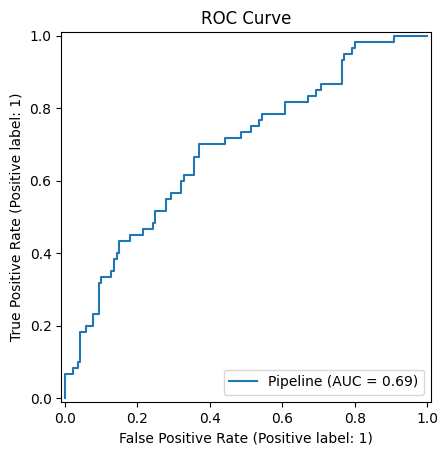
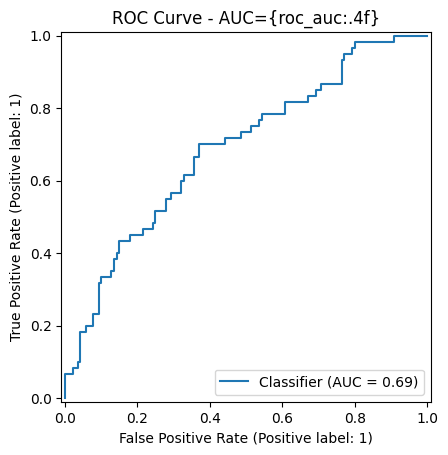
modified:   README.md && reports/roc_curve.png && reports/shap_summary.png && src/evaluate.py && src/explain.py - new file:   api/app.py - reports/feature_importance.csv && reports/feature_importance.csv && reports/feature_importance.png

diff --git a/src/evaluate.py b/src/evaluate.py
@@ -5,10 +5,52 @@ from pathlib import Path
 import joblib
 import matplotlib.pyplot as plt
 import pandas as pd
-from sklearn.metrics import ConfusionMatrixDisplay, RocCurveDisplay
+from sklearn.metrics import (
+    ConfusionMatrixDisplay, 
+    RocCurveDisplay,
+    classification_report, 
+    roc_auc_score,
+)
 from sklearn.model_selection import train_test_split
 
 from data_preprocessing import load_data, split_features_target
+
+def get_feature_names(pipeline):
+    preprocessor = pipeline.named_steps["preprocessor"]
+    return preprocessor.get_feature_names_out()
+
+
+def plot_feature_importance(pipeline, output_path: str):
+    model = pipeline.named_steps["model"]
+    feature_names = get_feature_names(pipeline)
+    
+    if not hasattr(model, "feature_importances_"):
+        print("This model does not expose feature_importances_. Skipping.")
+        return 
+        
+    importances = model.feature_importances_
+    
+    importance_df = pd.DataFrame(
+        {
+            "feature": feature_names,
+            "importance": importances,
+        }
+    ).sort_values("importance", ascending=False)
+    
+    importance_df.to_csv("reports/feature_importance.csv", index=False)
+    
+    top_features = importance_df.head(20)
+    
+    plt.figure(figsize=(10,6))
+    plt.barh(top_features["feature"], top_features["importance"])
+    plt.gca().invert_yaxis()
+    plt.title("Top 20 Feature Importances")
+    plt.xlabel("Importance")
+    plt.tight_layout()
+    plt.savefig(output_path, bbox_inches="tight")
+    plt.close()         
+    
+
 
 def evaluate_saved_model(
     model_path: str | Path,
@@ -16,6 +58,9 @@ def evaluate_saved_model(
     target_col: str = "Risk",
     random_state: int = 42,
 ) -> None:
+    reports_dir = Path("reports")
+    reports_dir.mkdir(parents=True, exist_ok=True)
+    
     model_path = Path(model_path)
     if not model_path.exists():
         raise FileNotFoundError(f"Model not found: {model_path}")
@@ -33,13 +78,17 @@ def evaluate_saved_model(
     )
     
     y_pred = pipeline.predict(X_test)
+    y_proba = pipeline.predict_proba(X_test)[:, 1]
     
-    reports_dir = Path("reports")
-    reports_dir.mkdir(parents=True, exist_ok=True)
+    roc_auc = roc_auc_score(y_test, y_pred)
+    
+    print("ROC-AUC:", round(roc_auc, 4))
+    print("\nClassification report:")
+    print(classification_report(y_test, y_pred))
     
     plt.figure()
-    RocCurveDisplay.from_estimator(pipeline, X_test, y_test)
-    plt.title("ROC Curve")
+    RocCurveDisplay.from_predictions(y_test, y_proba)
+    plt.title("ROC Curve - AUC={roc_auc:.4f}")
     plt.savefig(reports_dir / "roc_curve.png", bbox_inches="tight")
     plt.close()
     
@@ -48,6 +97,11 @@ def evaluate_saved_model(
     plt.title("Confusion Maxtrix")
     plt.savefig(reports_dir / "confusion_matrix.png", bbox_inches="tight") 
     plt.close()
+    
+    plot_feature_importance(
+        pipeline,
+        output_path=reports_dir / "feature_importance.png",   
+    )
     
     print("Saved evaluation plots to reports/")
 

diff --git a/src/explain.py b/src/explain.py
@@ -17,7 +17,11 @@ def explain_model():
     X, y = split_features_target(df, target_col="Risk")
     
     _, X_test, _, _ = train_test_split(
-        X, y, test_size=0.2, stratify=y,random_state=42
+        X, 
+        y, 
+        test_size=0.2, 
+        stratify=y,
+        random_state=42,
     )
     
     preprocessor = pipeline.named_steps["preprocessor"]
@@ -25,12 +29,25 @@ def explain_model():
     
     X_test_processed = preprocessor.transform(X_test)
     
+    feature_names = preprocessor.get_feature_names_out()
+    
+    X_test_processed_df = pd.DataFrame(
+        X_test_processed,
+        columns=feature_names,
+        index=X_test.index,
+    )
+    
     explainer = shap.TreeExplainer(model)
-    shap_values = explainer.shap_values(X_test_processed)
+    shap_values = explainer.shap_values(X_test_processed_df)
     
     Path("reports").mkdir(exist_ok=True)
     
-    shap.summary_plot(shap_values, X_test_processed, show=False)
+    shap.summary_plot(
+        shap_values, 
+        X_test_processed_df, 
+        show=False,
+        max_display=20,
+    )
     plt.savefig("reports/shap_summary.png", bbox_inches="tight")
     plt.close()
     

diff --git a/api/app.py b/api/app.py
@@ -1,0 +1,23 @@
+import joblib
+import pandas as pd
+from fastapi import FastAPI
+
+app = FastAPI(title="Credit Risk Scoring API")
+
+model = joblib.load("models/xgboost_pipeline.pkl")
+
+@app.get("/health")
+def health():
+    return {"status": "ok"}
+
+@app.post("/predict")
+def predict(data: dict):
+    df = pd.DataFrame([data])
+    probability = model.predict_proba(df)[0][1]
+    prediction = int(probability >= 0.5)
+    
+    return {
+        "default_probability": float(probability),
+        "prediction": prediction,
+        "risk_label": "bad" if prediction == 1 else "goood"
+    }

diff --git a/README.md b/README.md
@@ -33,6 +33,8 @@ python src/evaluate.py
 python src/explain.py
 
 </> Bash
-mlflow ui
+mlflow ui -> running mlflow app
+uvicorn api.app:app --reload  && then http://127.0.0.1:8000/docs -> running the serving app
+
 
 
